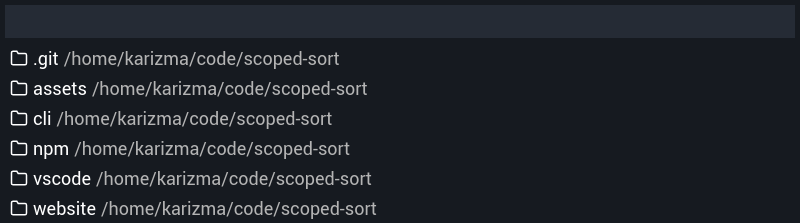
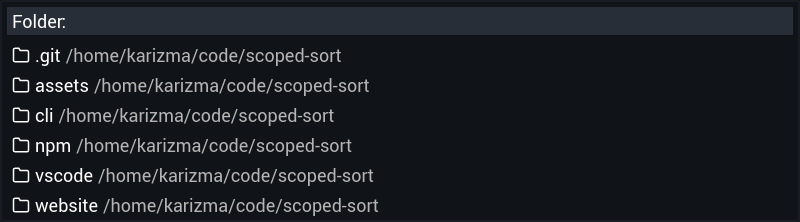
make preview-generator script, update previews, update readme, and small style change

diff --git a/preview-generator.js b/preview-generator.js
@@ -1,0 +1,94 @@
+/**
+ *  This is a script to automate screenshots of the ui
+ *  Won't work unless you have the same setup as me since it uses specific directories.
+ */
+
+// @ts-check
+import path from 'path';
+import os from 'os';
+import { firefox } from 'playwright';
+import { exec } from 'child_process';
+
+/** @param {number} ms */
+function sleep(ms) {
+	return new Promise((res) => {
+		setTimeout(res, ms);
+	});
+}
+
+(async () => {
+	// this is assuming no ports are using 5173, prob should parse the url
+	// stdout from the exec()
+	const previewPath = 'http://localhost:5173/preview';
+	let controller = new AbortController();
+
+	/** @param {string} dir */
+	async function newBaseDirectory(dir) {
+		console.log('New directory: ' + dir);
+
+		process.env.LFV_DEFAULT_FOLDER = dir;
+		await sleep(100);
+		controller.abort();
+		controller = new AbortController();
+
+		exec('npx vite dev', { signal: controller.signal });
+		await sleep(2000);
+	}
+
+	await newBaseDirectory(path.join(os.homedir(), 'code', 'scoped-sort'));
+
+	let browser = await firefox.launch({
+		// headless: false
+	});
+	let page = await browser.newPage();
+
+	console.log('Getting markdown.png');
+	await page.goto(`${previewPath}/README.md`);
+
+	const outlineButton = page.locator(
+		'main section > div > button:nth-of-type(2)'
+	);
+	await outlineButton.click();
+
+	await page.screenshot({ path: `assets/markdown.png` });
+
+	console.log('Getting javascript.png');
+	await page.goto(`${previewPath}/previews.js`);
+	await sleep(1000);
+	await page.screenshot({ path: `assets/javascript.png` });
+
+	console.log('Getting plain-image-file.png');
+	await page.goto(`${previewPath}/vscode/assets/command-preview.gif`);
+	await page.screenshot({ path: `assets/plain-image-file.png` });
+
+	console.log('getting folder-picker.png');
+	await page.keyboard.press('Control+o');
+	const form = await page.locator('form');
+	await form.screenshot({ path: 'assets/folder-picker.png' });
+
+	console.log('getting font.png');
+	await newBaseDirectory('/' + path.join('usr', 'share', 'fonts', 'truetype'));
+	await page.setViewportSize({
+		width: 1000,
+		height: 700
+	});
+	await page.goto(`${previewPath}/CascadiaCode/CascadiaCode.ttf`);
+	await page.screenshot({
+		path: 'assets/font.png'
+	});
+
+	console.log('Getting html.png');
+	await newBaseDirectory(path.join(os.homedir(), 'code', 'html-preview-test'));
+	await page.setViewportSize({
+		width: 1100,
+		height: 1000
+	});
+	await page.goto(`${previewPath}/index.html`);
+	await sleep(1000);
+	await page.screenshot({
+		path: 'assets/html.png'
+	});
+
+	await browser.close();
+	process.exit(1);
+})();

diff --git a/src/lib/styles/variables.scss b/src/lib/styles/variables.scss
@@ -34,7 +34,7 @@ $file-pallete-item-selected-bg: $c-black-2;
 $file-pallete-item-selected-text-color: white;
 
 $sidebar-min-width: 80px;
-$sidebar-static-width: min(30vw, 220px);
+$sidebar-static-width: min(30vw, 250px);
 $sidebar-bg: transparent;
 $sidebar-inactive-text-color: #858383;
 $sidebar-hover-text-color: white;

diff --git a/README.md b/README.md
@@ -2,14 +2,6 @@
 
 Simple program to view files in your browser. Text files, markdown, html, images, videos, audios, and fonts all work.
 
-## Installation
-
-```
-git clone https://github.com/sixskys/local-files-viewer.git
-cd local-files-viewer
-npm i
-```
-
 ## Previews
 
 Markdown:
@@ -18,29 +10,33 @@ Markdown:
 
 For more previews, visit [previews.md](previews.md)
 
+## Installation
+
+For now you need to clone the repo and run it yourself, in the future I might make it an npm
+package.
+
+```
+git clone https://github.com/sixskys/local-files-viewer.git
+cd local-files-viewer
+npm i
+```
+
 ## Usage
 
 This program currently works by opening up a folder: your env variable of `LFV_DEFAULT_FOLDER`.
+I understand it is a bit counterintuitive, but at the time I couldn't find a way to pass
+in arguments to the sveltekit program.
+
+Opening up just a single file might be supported in the future but for now you just have to
+open their parent.
+
 You can use this program two ways:
 
 a. going to this project directory changing your env variable and running `npm run dev`: `LFV_DEFAULT_FOLDER=~/Downloads/ npm run dev`
-b. Use the helper script below, usage: `lfv <folder>`
+b. Use the helper script in `./lfv`, usage: `lfv <folder>`
 
-```sh
-#!/bin/sh
-
-if [ ! "$1" = "" ]; then
-    OLD_LFV=$LFV_DEFAULT_FOLDER
-    LFV_DEFAULT_FOLDER="$(cd "$1" && pwd -P)"
-fi
-
-echo $LFV_DEFAULT_FOLDER
-
-cd ~/code/local-files-viewer/
-npm run dev
-
-LFV_DEFAULT_FOLDER=$OLD_LFV
-```
+The helper script does assume the project directory is at `~/code/local-files-viewer`, so
+if it's not, you will need to change it.
 
 ## Keybindings
 
@@ -77,7 +73,7 @@ pallete mode:
   how they handle line highlights
 - Took some inspiration from vscode ui
 - Icons
-  - [feather](https://feathericons.com/), only used `hash`, `file`, and `folder`
+  - [feather](https://feathericons.com/), only used `hash`, `file`, and `folder`, `arrow-[right|down]`, and `chevron-[right|down]`
   - [simple-icons](https://simpleicons.org/), used for language file icons
 
 ## Future
